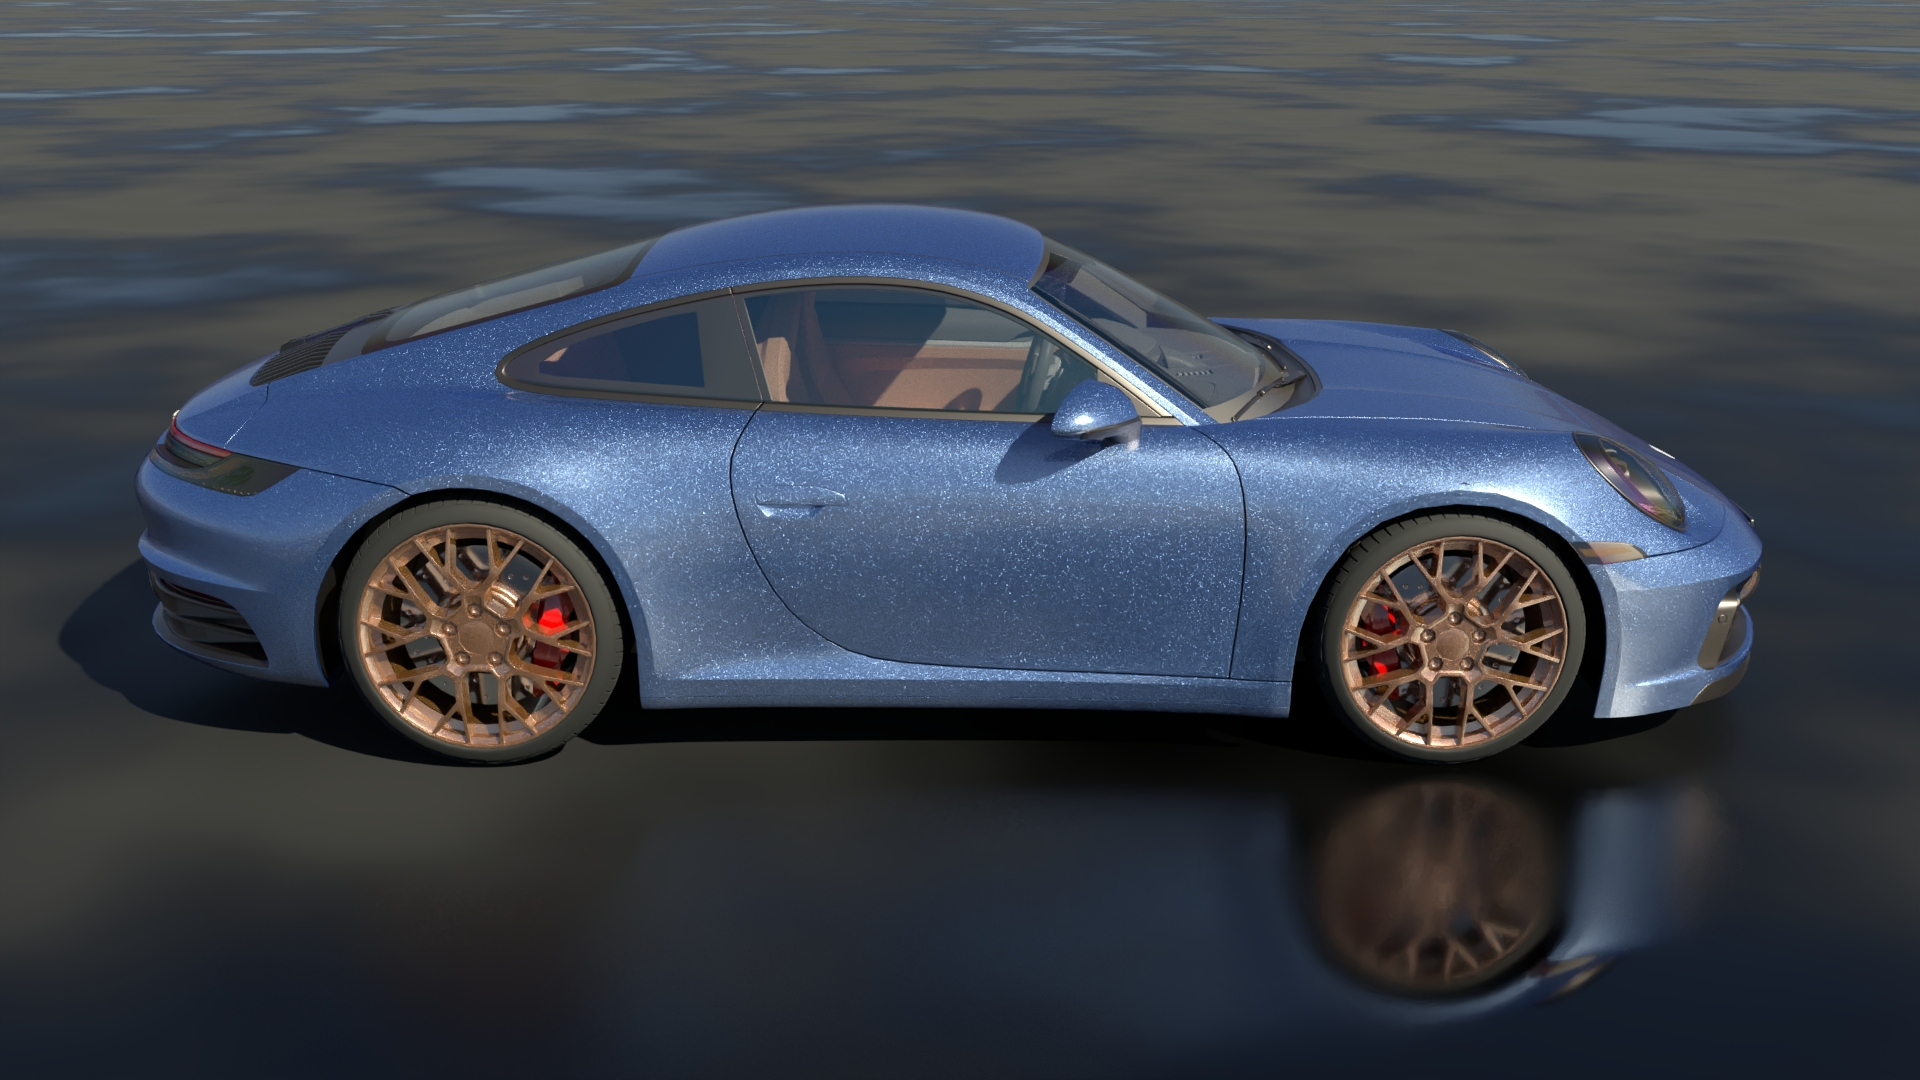
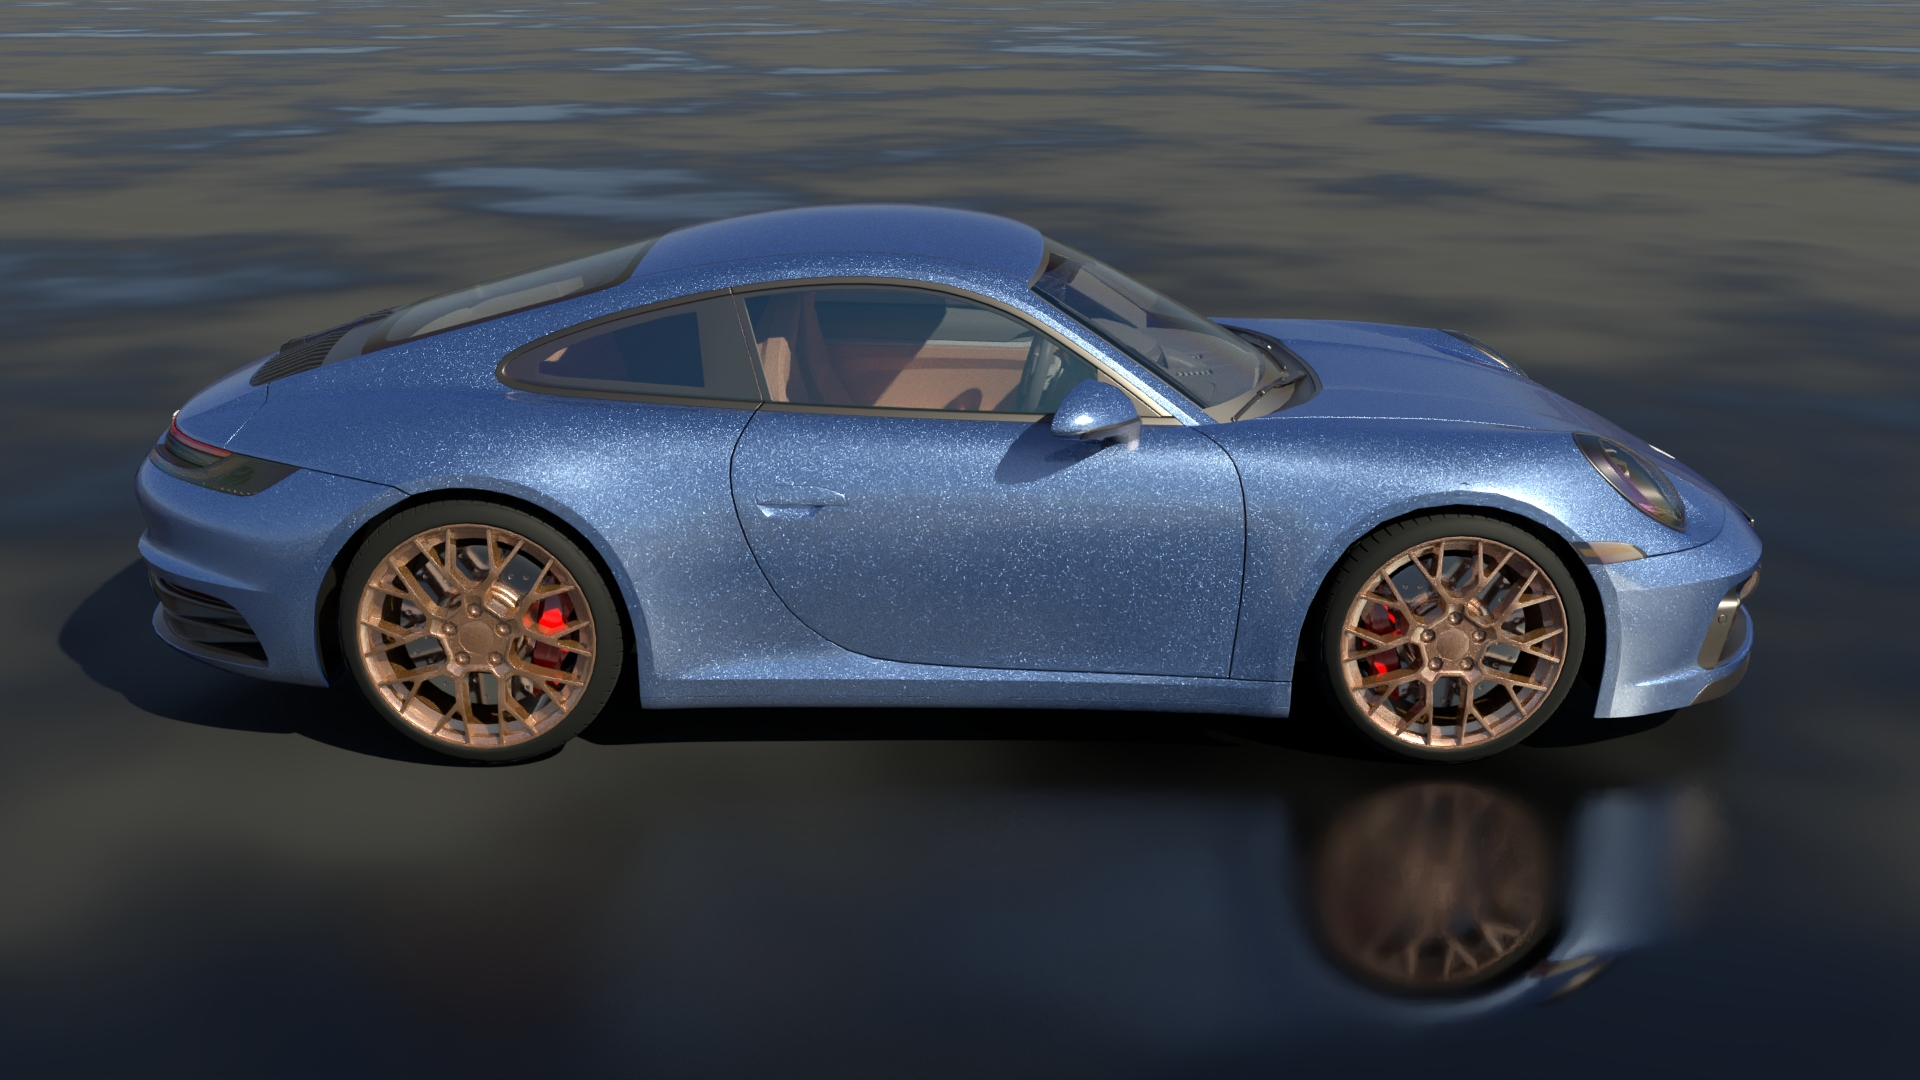
feature: added snippets for website, automotive edit

diff --git a/explore/by-industry/automotive/py/automotive_porsche911.py b/explore/by-industry/automotive/py/automotive_porsche911.py
@@ -86,9 +86,9 @@ def main(session):
     mat_carbon.set_edge_color(wr.Color(1.0, 0.85, 0.796))
     mat_carbon.set_roughness(0.4)
 
-    mat_rubber.set_color(wr.Color(0.0, 0.0, 0.0))
-    mat_rubber.set_roughness(0.8)
-    mat_rubber.set_specular_level(1.25)
+    mat_rubber.set_color(wr.Color(0.01, 0.01, 0.01))
+    mat_rubber.set_roughness(0.7)
+    mat_rubber.set_specular_level(0.3)
 
     mat_silver.set_color(wr.Color(0.9, 0.9, 0.9))
     mat_silver.set_edge_color(wr.Color(1.0, 1.0, 1.0))
